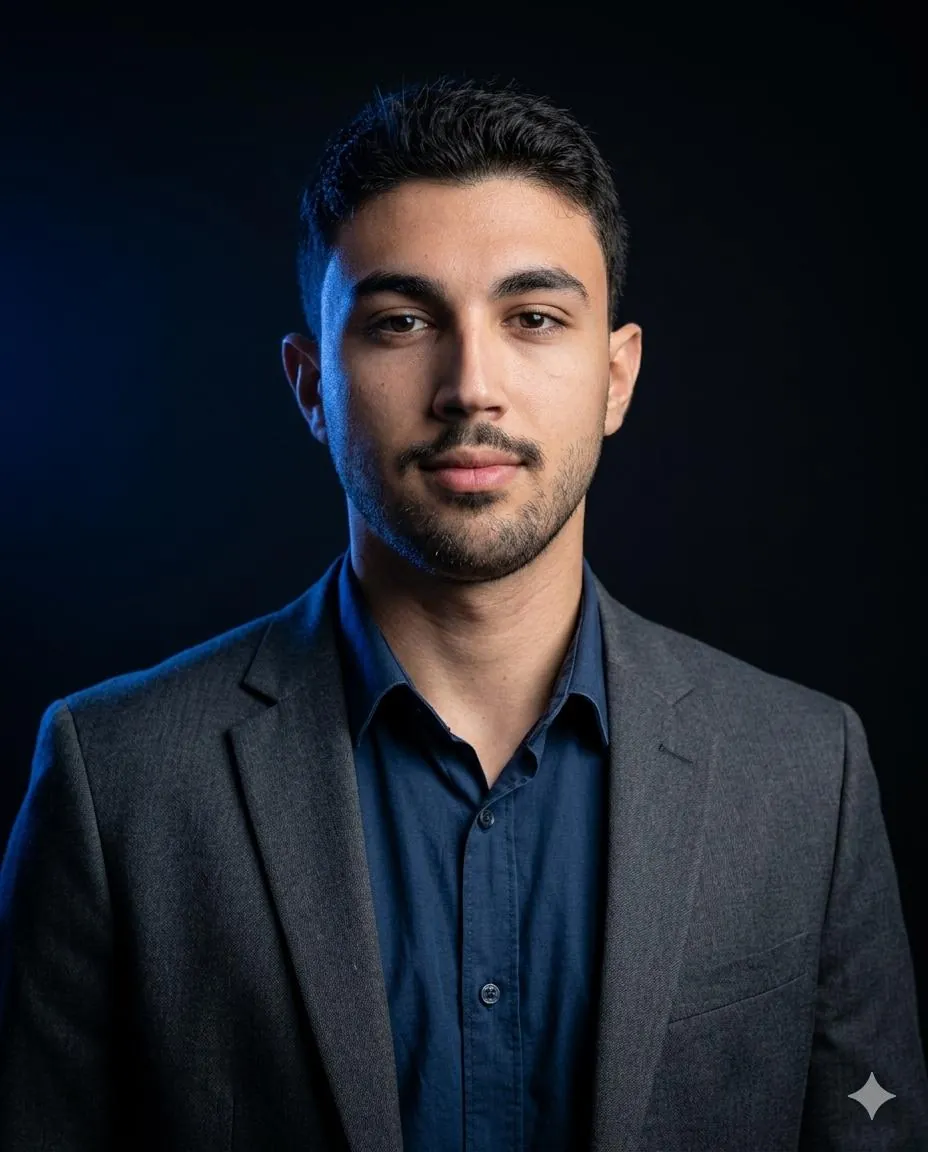
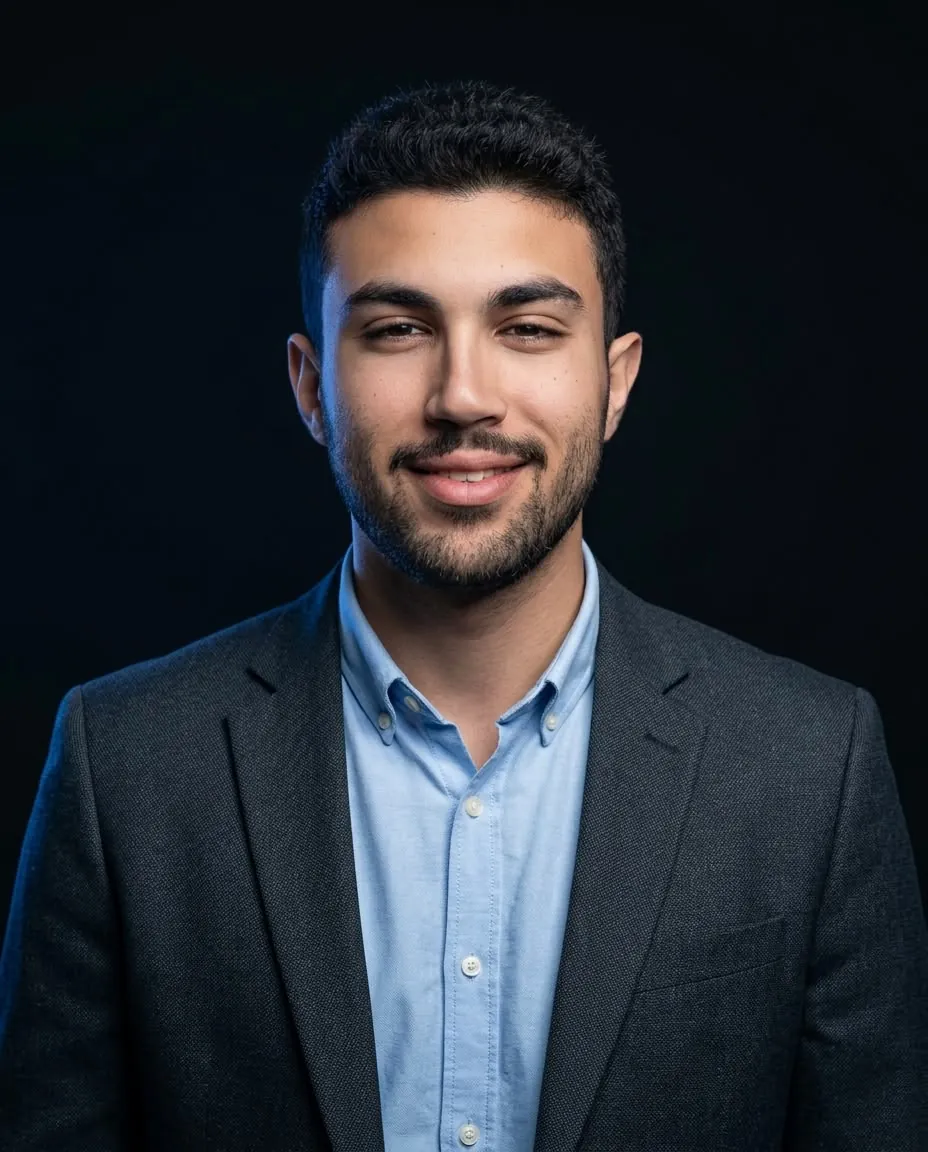
Update team profiles with real names, photos, bios and links
- Full names for Amr, Joe, Kesh, Mokhles and Seif
- New photos for Joe, Kesh, Mokhles and Seif (optimized to WebP)
- Real bios from Kesh and Joe; Seif's shortened to fit the desktop panel
- All roles set to plain Co-Founder
- Location chips removed; LinkedIn added for Joe and Mokhles

diff --git a/src/data/team.ts b/src/data/team.ts
@@ -16,11 +16,11 @@ export interface TeamMember {
 export const team: TeamMember[] = [
   {
     id: 'member-amr',
-    name: 'Amr',
-    role: 'Co-Founder & Head of Design',
+    name: 'Amr Eldeeb',
+    role: 'Co-Founder',
     bio: 'Leads design across every Otiumate product, from first sketch to shipped interface. Shapes how our products look, feel, and behave, making sure complex AI systems stay simple and intuitive for the people using them. Obsessed with the details that turn a working product into one people love.',
     photo: '/team-amr.webp',
-    details: ['Doha, Qatar', '5+ years of experience'],
+    details: ['5+ years of experience'],
     socials: {
       linkedin: 'https://www.linkedin.com/in/amr-eldeeb-cs/',
       github: 'https://github.com/FeuPhoenix',
@@ -29,26 +29,32 @@ export const team: TeamMember[] = [
   {
     id: 'member-beme',
     name: 'Beme',
-    role: 'Co-Founder & CTO',
+    role: 'Co-Founder',
     bio: 'Full-stack engineer who loves clean architecture and elegant solutions. Believes great code is invisible — it just works. Brings systems thinking to every problem.',
     photo: '/team-beme.webp',
     details: [],
   },
   {
     id: 'member-joe',
-    name: 'Joe',
+    name: 'Youssef Sadek',
     role: 'Co-Founder',
-    bio: 'Designer with a motion-first philosophy. Every screen should feel alive and intentional. Brings a sharp eye for detail and a deep understanding of what makes interfaces feel premium.',
+    bio: 'They thrive at the intersection of creative storytelling and deep data analytics, ensuring every campaign resonates emotionally while hitting hard business metrics.',
     photo: '/team-joe.webp',
     details: [],
+    socials: {
+      linkedin: 'https://www.linkedin.com/in/youssef-sadek-687aa1419/',
+    },
   },
   {
     id: 'member-kesh',
-    name: 'Kesh',
-    role: 'Co-Founder & Head of Technical',
-    bio: 'Product strategist who thrives at the crossroads of user needs and business goals. Turns fuzzy problems into sharp roadmaps. Passionate about building things people actually want to use.',
+    name: 'Ahmed ELKeshawy',
+    role: 'Co-Founder',
+    bio: 'AI engineer and researcher specializing in computer vision, generative media and natural language pipelines, and edge systems. As a Co-Founder of Otiumate, he architects the end-to-end vision and image processing engines driving projects like Sortak. Combining production-grade engineering with academic rigor, he also leads applied R&D and instructs computer vision and systems modules at The British University in Egypt.',
     photo: '/team-kesh.webp',
-    details: [],
+    details: [
+      '4+ years in applied AI engineering, computer vision and natural language pipelines, and technical research',
+      'Wrote an architecture framework exploring artificial "sleep-phase consolidation" for AI brains — making him one of the few engineers whose theoretical systems might actually sleep more than he does',
+    ],
     socials: {
       linkedin: 'https://www.linkedin.com/in/ahmed-el-keshawy/',
       github: 'https://github.com/Ahmed-ELKeshawy',
@@ -56,19 +62,22 @@ export const team: TeamMember[] = [
   },
   {
     id: 'member-mokhles',
-    name: 'Mokhles',
+    name: 'Youssef Mokhles',
     role: 'Co-Founder',
     bio: 'Dedicated team member who brings energy and focus to every project. Committed to building products that make a real difference.',
     photo: '/team-mokhles.webp',
     details: [],
+    socials: {
+      linkedin: 'https://www.linkedin.com/in/youssef-mokhles-63a834317/',
+    },
   },
   {
     id: 'member-seif',
-    name: 'Seif',
-    role: 'CEO & Co-Founder',
-    bio: 'Mechanical engineering graduate from AUC with a restless love for entrepreneurship, storytelling, and building ideas where technical rigor meets creative vision. I saw how AI was changing everything — and how many young people were excited, confused, and stuck, not knowing how to harness it. So I decided to build the kind of opportunity for others that AI created for me.\n\nWith no big money, no famous last name, and no ready-made blueprint, I started this with a dream and a team of people who think the same way but bring skills I don\'t have.\n\nMy goal is simple: to enable everyone who feels behind, and to help Egypt achieve its goal of becoming an AI and tech hub for the region — by building tools that put real power into people\'s hands.',
+    name: 'Seifeldeen Abdelgawad',
+    role: 'Co-Founder',
+    bio: 'Mechanical engineering graduate from AUC with a restless love for entrepreneurship, storytelling, and building ideas where technical rigor meets creative vision. I saw how AI was changing everything — and how many young people were excited, confused, and stuck, not knowing how to harness it. So I decided to build the kind of opportunity for others that AI created for me.\n\nMy goal is simple: to enable everyone who feels behind, and to help Egypt become an AI and tech hub for the region — by building tools that put real power into people\'s hands.',
     photo: '/team-seif.webp',
-    details: [],
+    details: ['He and his two siblings all share the same birthday — and they are not triplets'],
     socials: {
       linkedin: 'https://www.linkedin.com/in/seifeldeen-abdelgawad-25257b213/',
     },
